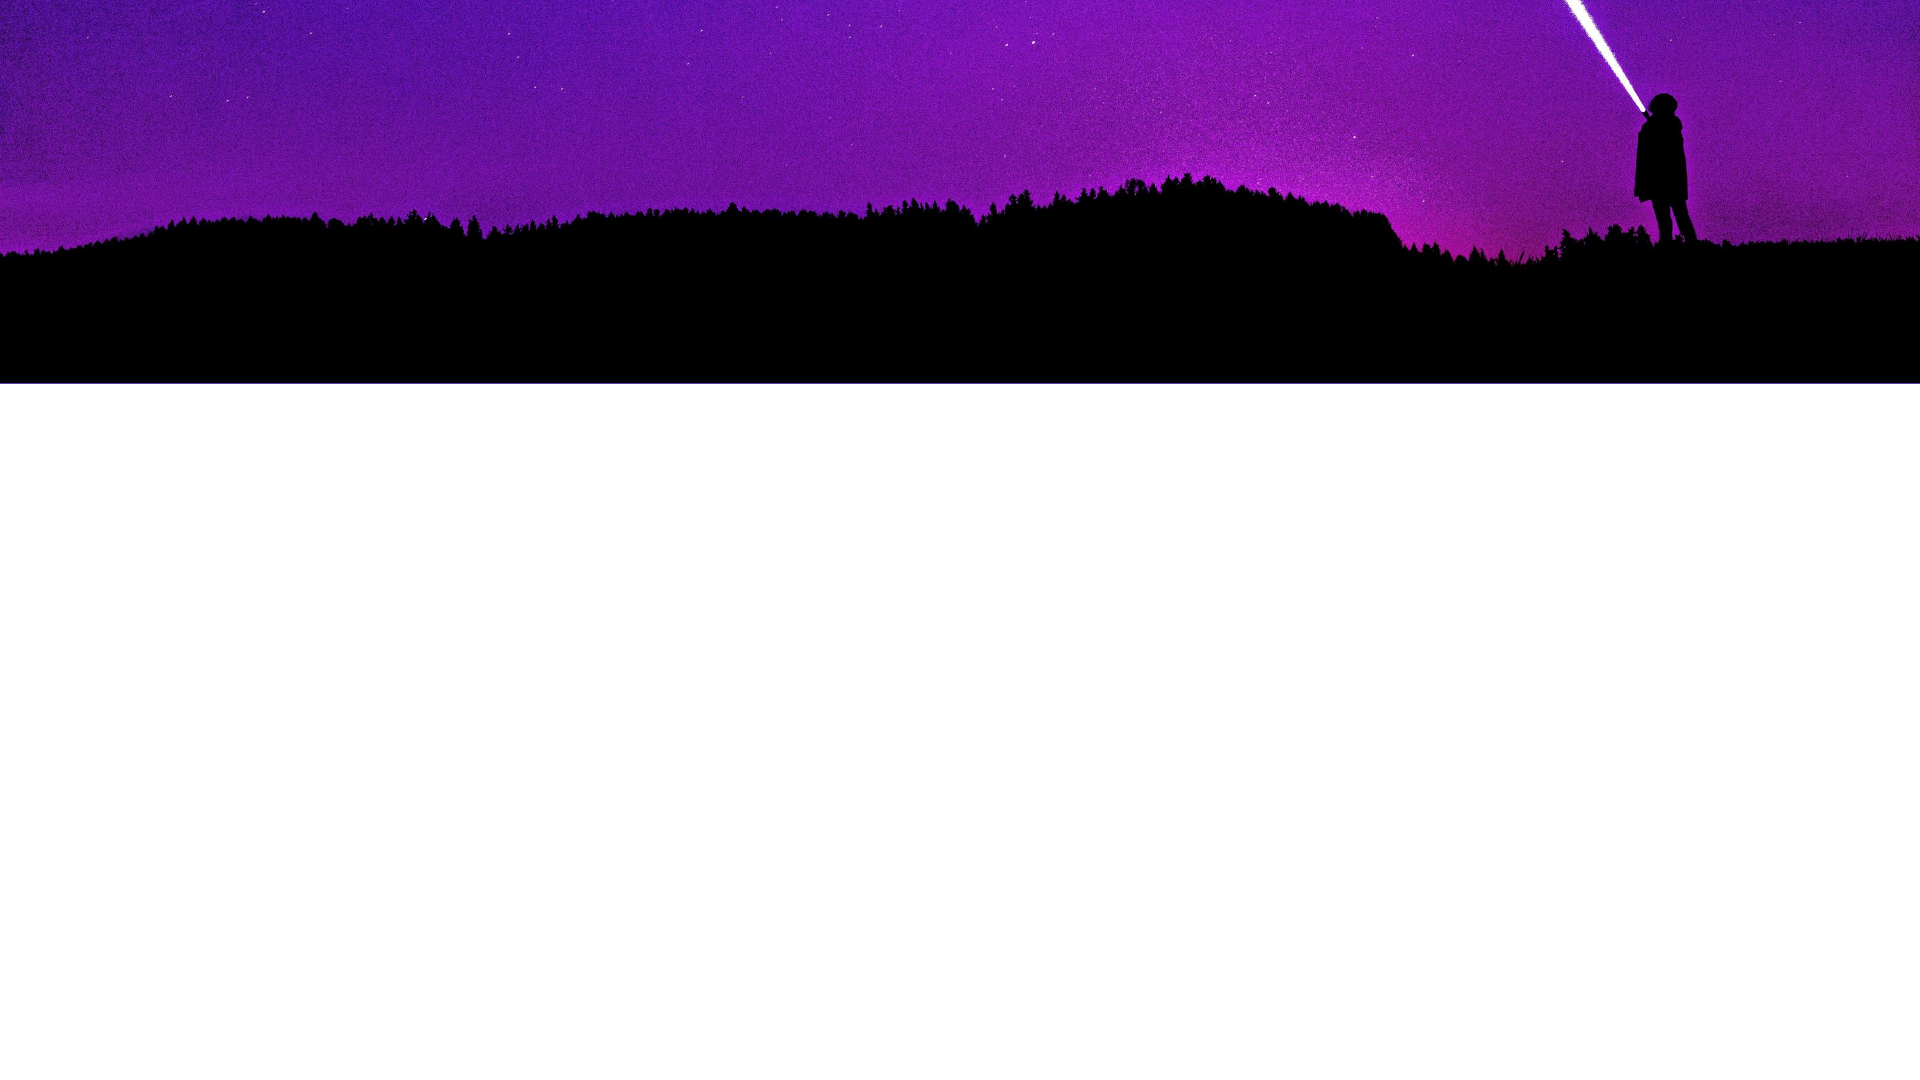
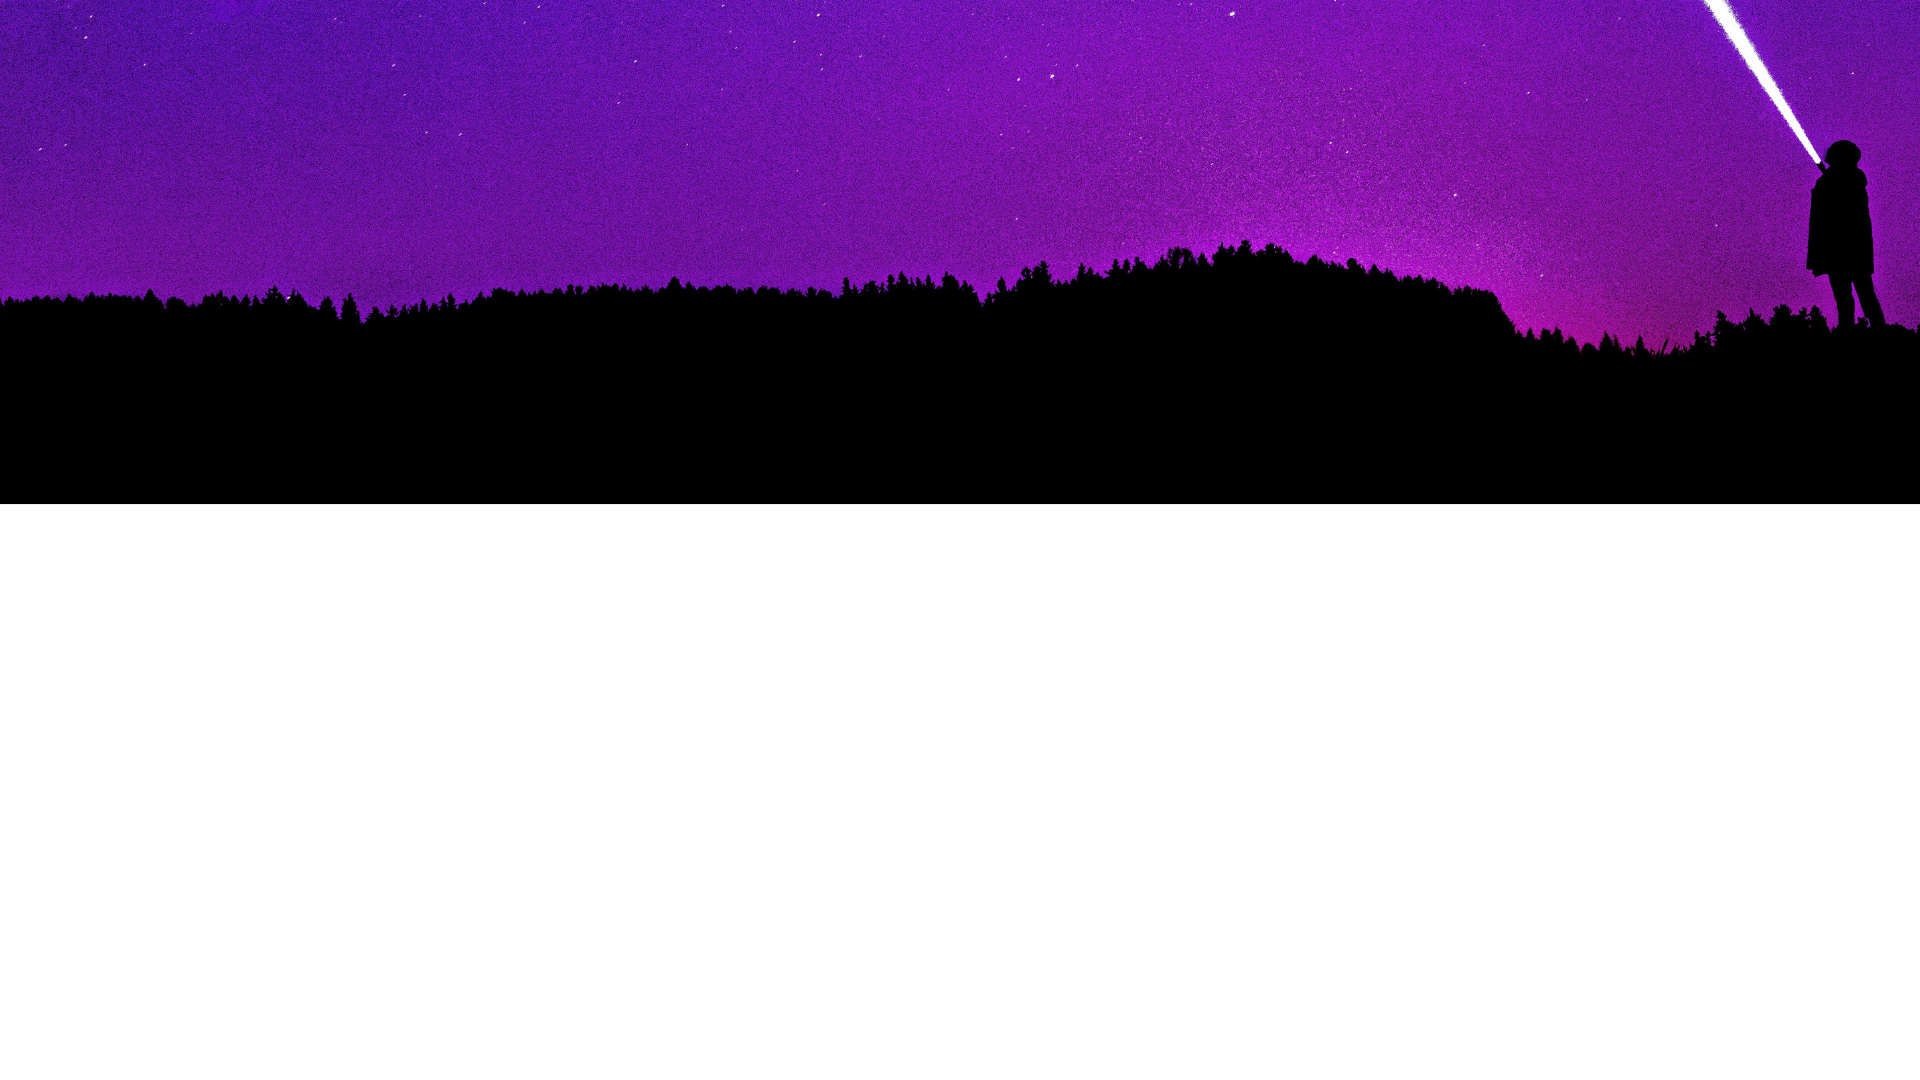
made output component visible and changed to a bigger header image

Changed region(s): [[0.0, 0.0, 1.0, 0.4889]]

diff --git a/src/views/components/shortComponent.js b/src/views/components/shortComponent.js
@@ -17,7 +17,7 @@ const ShortComponent = (props) => {
           value={props.input.url}
         />
         <button
-          className=" h-full border w-2/12 text-white p-1 rounded border-transparent ml-5 bg-darkviolet hover:bg-black hover:border-darkviolet"
+          className="text-sm md:text-base h-full border w-3/12 md:w-2/12 text-white p-1 rounded border-transparent ml-5 bg-darkviolet hover:bg-black hover:border-darkviolet"
           type="submit"
           // onClick={props.handleClick}
         >
@@ -50,8 +50,8 @@ const ShortComponent = (props) => {
         }
       >
         <div className="flex flex-col md:flex-row justify-between border mb-1 border-purple-200 pl-2 md:p-0 mt-3 border-r-0 border-l-0 py-3">
-          <p className="md:self-center md:ml-2 text-sm text-gray-900 font-semibold">
-            <i className="fa fa-globe pr-2 text-purple-600"></i>
+          <p className="md:self-center md:ml-2 text-sm text-white font-semibold">
+            <i className="fa fa-globe pr-2 text-purple-400"></i>
             {props.handleUrl}
           </p>
 
@@ -73,7 +73,7 @@ const ShortComponent = (props) => {
             </div>
           ) : (
             <a
-              className="md:self-center font-semibold text-blue-700 hover:underline text-lg"
+              className="md:self-center font-semibold text-blue-300 hover:underline text-lg"
               href={`http://link0.ga/${props.shorturl}`}
               target="_blank"
             >
@@ -82,13 +82,13 @@ const ShortComponent = (props) => {
           )}
           <div>
             <button
-              className="w-32 text-purple-600 p-1 h-10 my-0 outline-none font-semibold hover:text-purple-900"
+              className="w-32 text-purple-400 p-1 h-10 my-0 outline-none font-semibold hover:text-purple-200"
               onClick={props.copyUrl}
             >
               {props.copyPopup ? "Copied!" : <span><i className="fa fa-files-o"></i> Copy</span>}
             </button>
             <button
-              className="w-32 text-purple-600 p-1 h-10  font-semibold rounded rounded-l-none hover:text-purple-900"
+              className="w-32 text-purple-400 p-1 h-10  font-semibold rounded rounded-l-none hover:text-purple-200"
               onClick={props.customizeHandler}
  
             >

diff --git a/src/views/containers/HomeContainer.js b/src/views/containers/HomeContainer.js
@@ -3,29 +3,28 @@ import { connect } from "react-redux";
 import ShortConnected from "./ShortContainer";
 import HomeComponent from "../components/HomeComponent";
 
-
-const mapStateToProps = ({  }) => {
-  return {
-
-  };
+const mapStateToProps = ({}) => {
+  return {};
 };
 
 const mapDispatchToProps = (dispatch) => {
-  return {
-   
-  };
+  return {};
 };
 
 const HomeContainer = (props) => {
-
-
   return (
     <Fragment>
-      <div style={{backgroundImage: "url('public/imgs/HeaderImage.png')", backgroundRepeat: "no-repeat"}} className="">
-      <HomeComponent />
-      <div className="flex" style={{backgroundColor: "black"}}>
-      <ShortConnected />
-      </div>
+      <div
+        style={{
+          backgroundImage: "url('public/imgs/HeaderImage.png')",
+          backgroundRepeat: "no-repeat",
+        }}
+        className=""
+      >
+        <HomeComponent />
+        <div className="flex">
+          <ShortConnected />
+        </div>
       </div>
     </Fragment>
   );

diff --git a/src/redux/app/reducers.js b/src/redux/app/reducers.js
@@ -8,8 +8,8 @@ import {
 } from "./types";
 
 const defaultState = {
-  isLoggedin: true,
-  user: "reagan20",
+  isLoggedin: false,
+  user: "",
   previousLinks: [],
   isFetching: null,
 };
